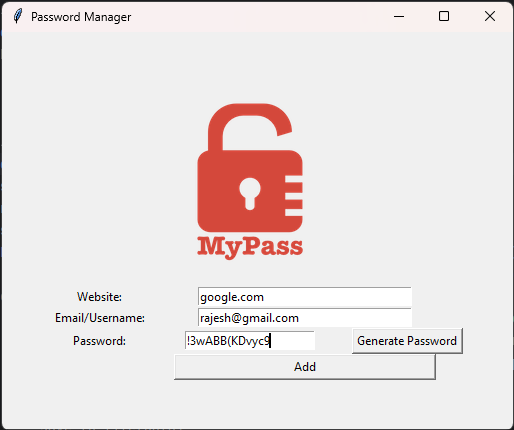
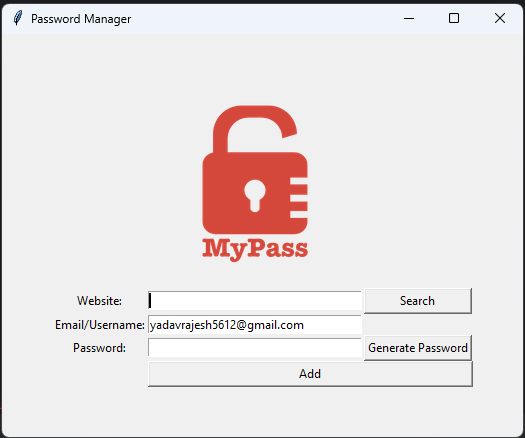
Update the readme and screenshot

diff --git a/Readme.md b/Readme.md
@@ -6,8 +6,9 @@ A effective **Password Manager** built using Python and Tkinter. This applicatio
 
 - **Random Password Generator**: Creates strong and unique passwords using a mix of letters, numbers, and symbols.
 - **Clipboard Support**: Automatically copies the generated password to the clipboard for quick access.
-- **Secure Storage**: Saves credentials in a structured format within a `password.txt` file.
+- **Secure Storage**: Saves credentials in a structured format within a ~~`password.txt`~~ `data.json` file.
 - **User-Friendly Interface**: Built with Tkinter for an intuitive and easy-to-use GUI.
+- **Search functionality**: Implemented search to get the saved password
 
 ## 🛠 Installation
 
@@ -37,13 +38,17 @@ python main.py
 1. **Enter Website**: Input the name of the website.
 2. **Enter Email/Username**: Provide the associated login email or username.
 3. **Generate Password**: Click the `Generate Password` button to create a strong password.
-4. **Save Credentials**: Click `Add` to store the credentials in `password.txt`.
+4. **Save Credentials**: Click `Add` to store the credentials in ~~`password.txt`~~ `data.json`.
 5. **Copy to Clipboard**: The password is automatically copied for convenience.
+6. **Search**: Can search by entering the website name.
 
 ## 🛡 Security Considerations
 
-- The passwords are saved in a plain-text file (`password.txt`). Consider encrypting or using a database for better security.
+- [x] ~~The passwords are saved in a plain-text file (`password.txt`). Consider encrypting or using a database for better security~~.
 - Avoid sharing your saved file with others to prevent unauthorized access.
+
+## Security Considerations Incorporated
+- [x] Passwords are now stored in JSON and encrypted.
 
 ## 🤝 Contributing
 
